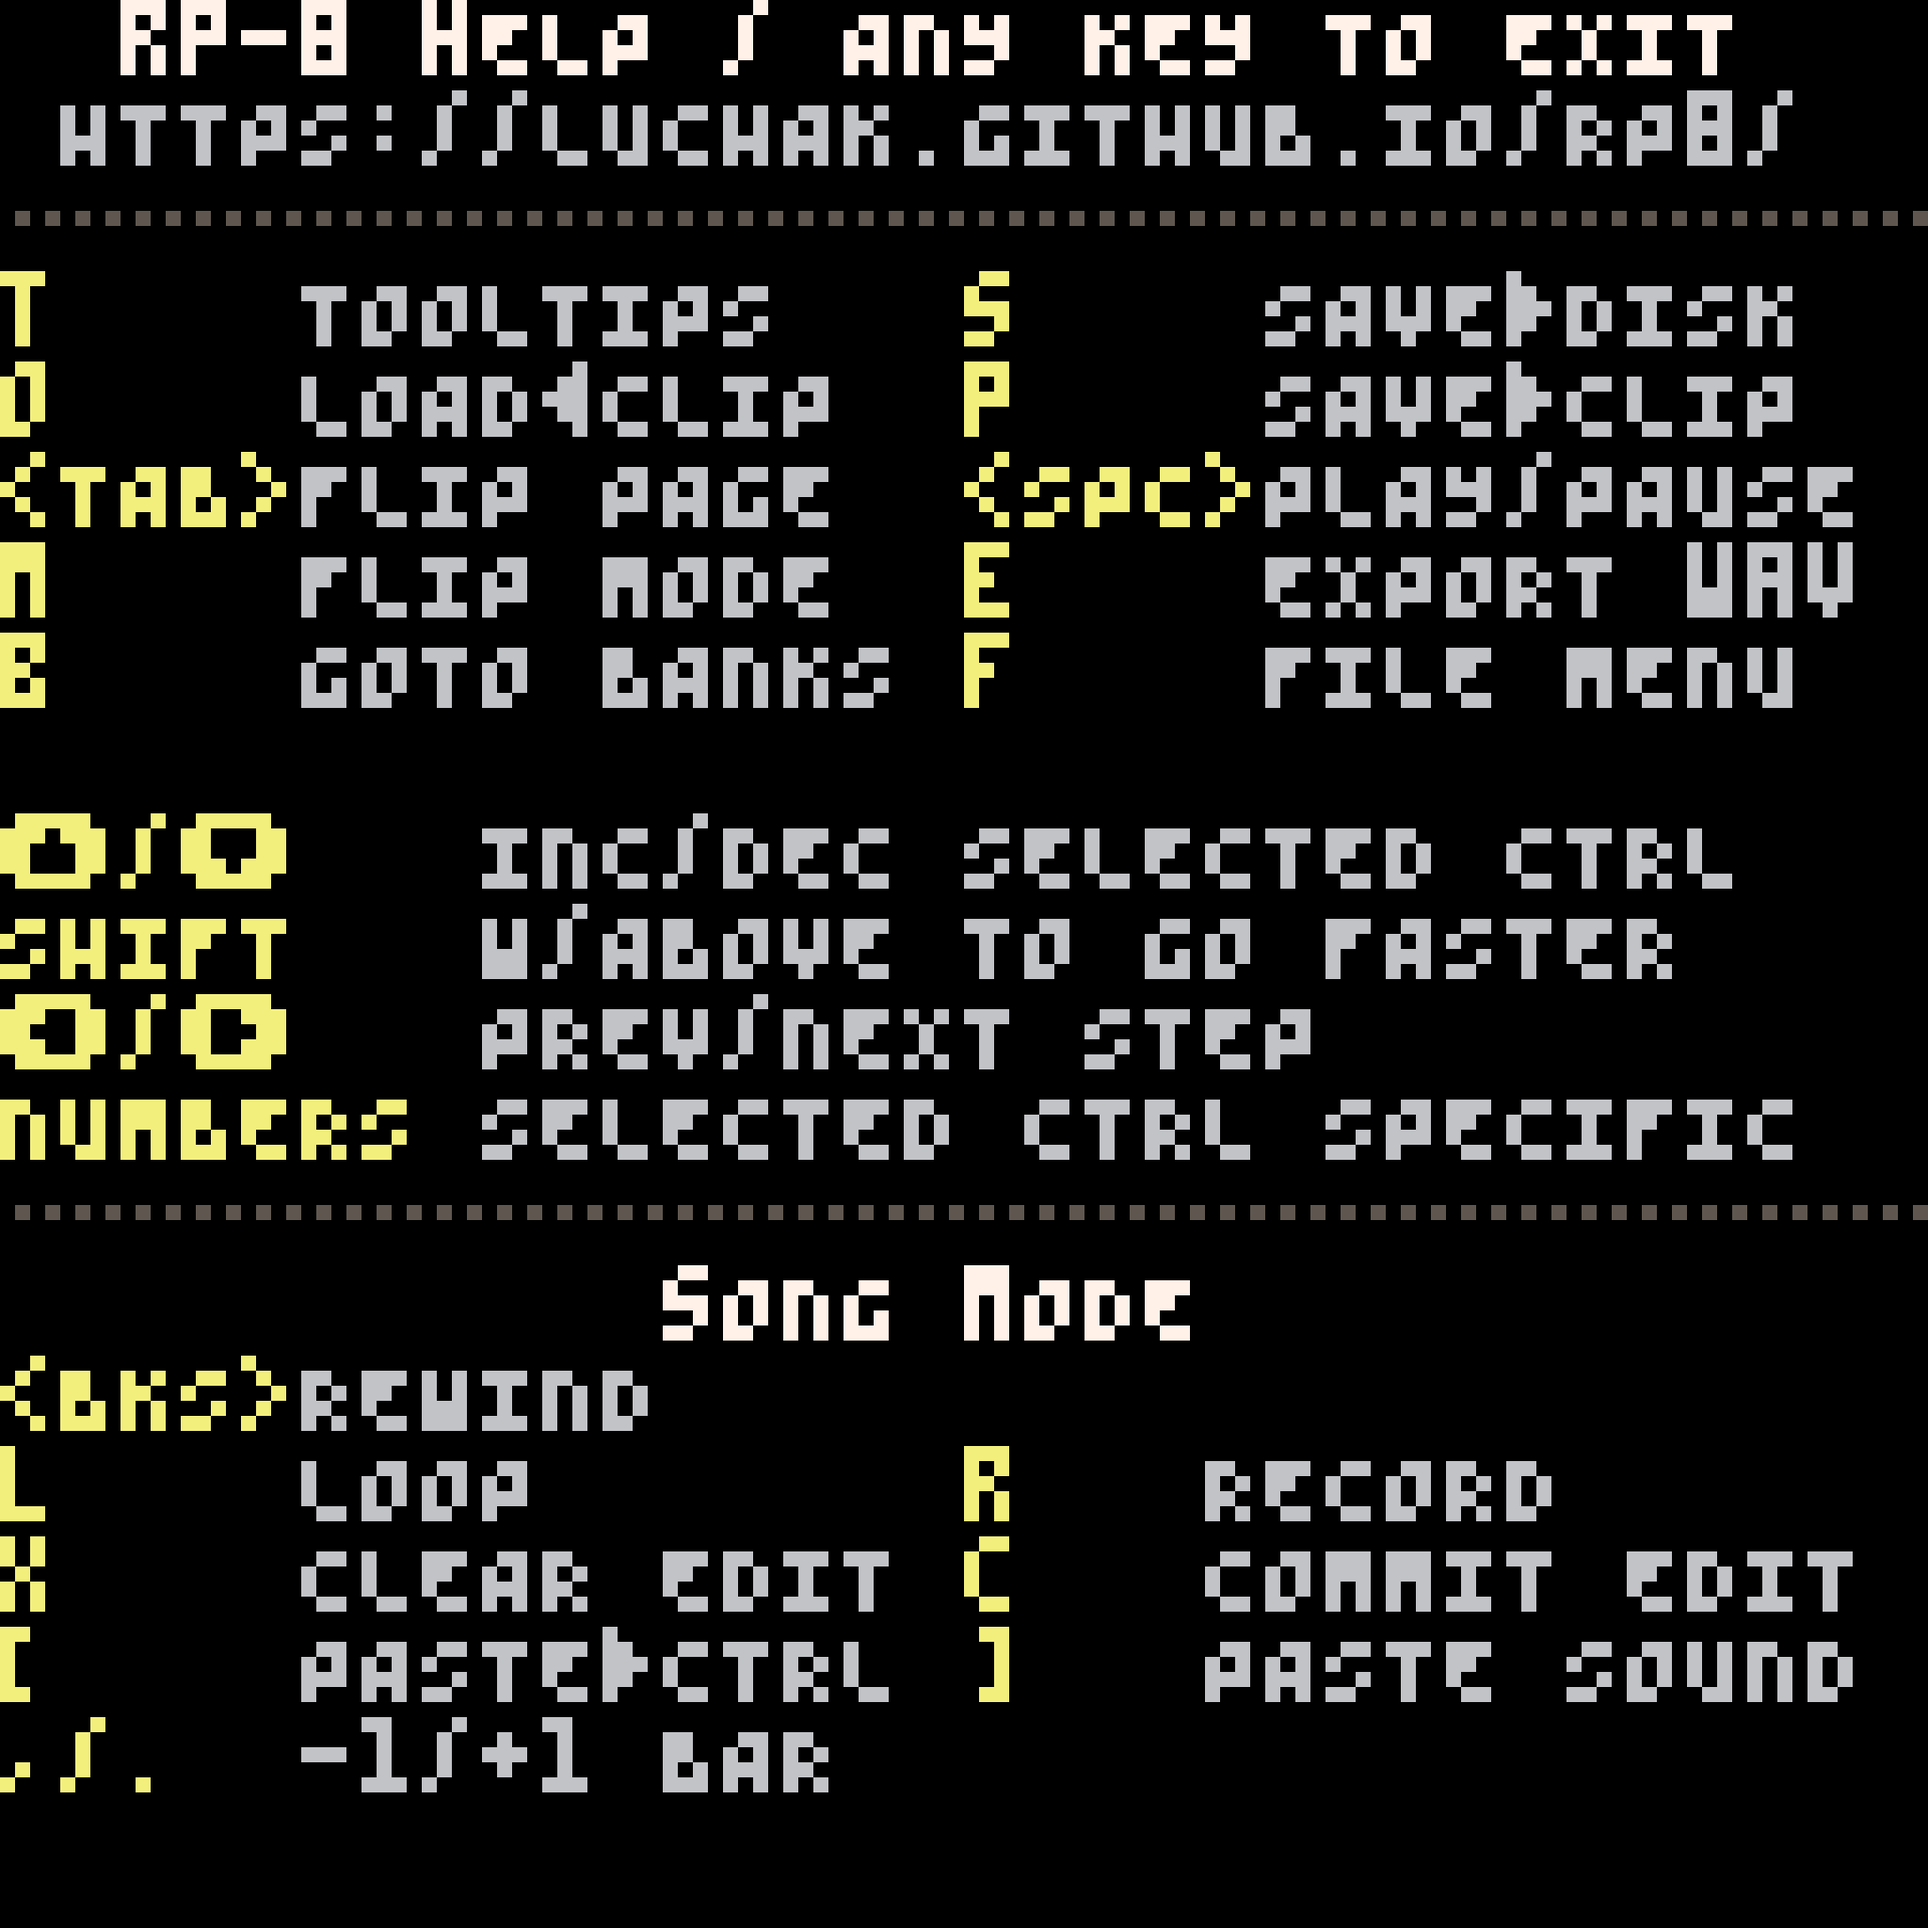
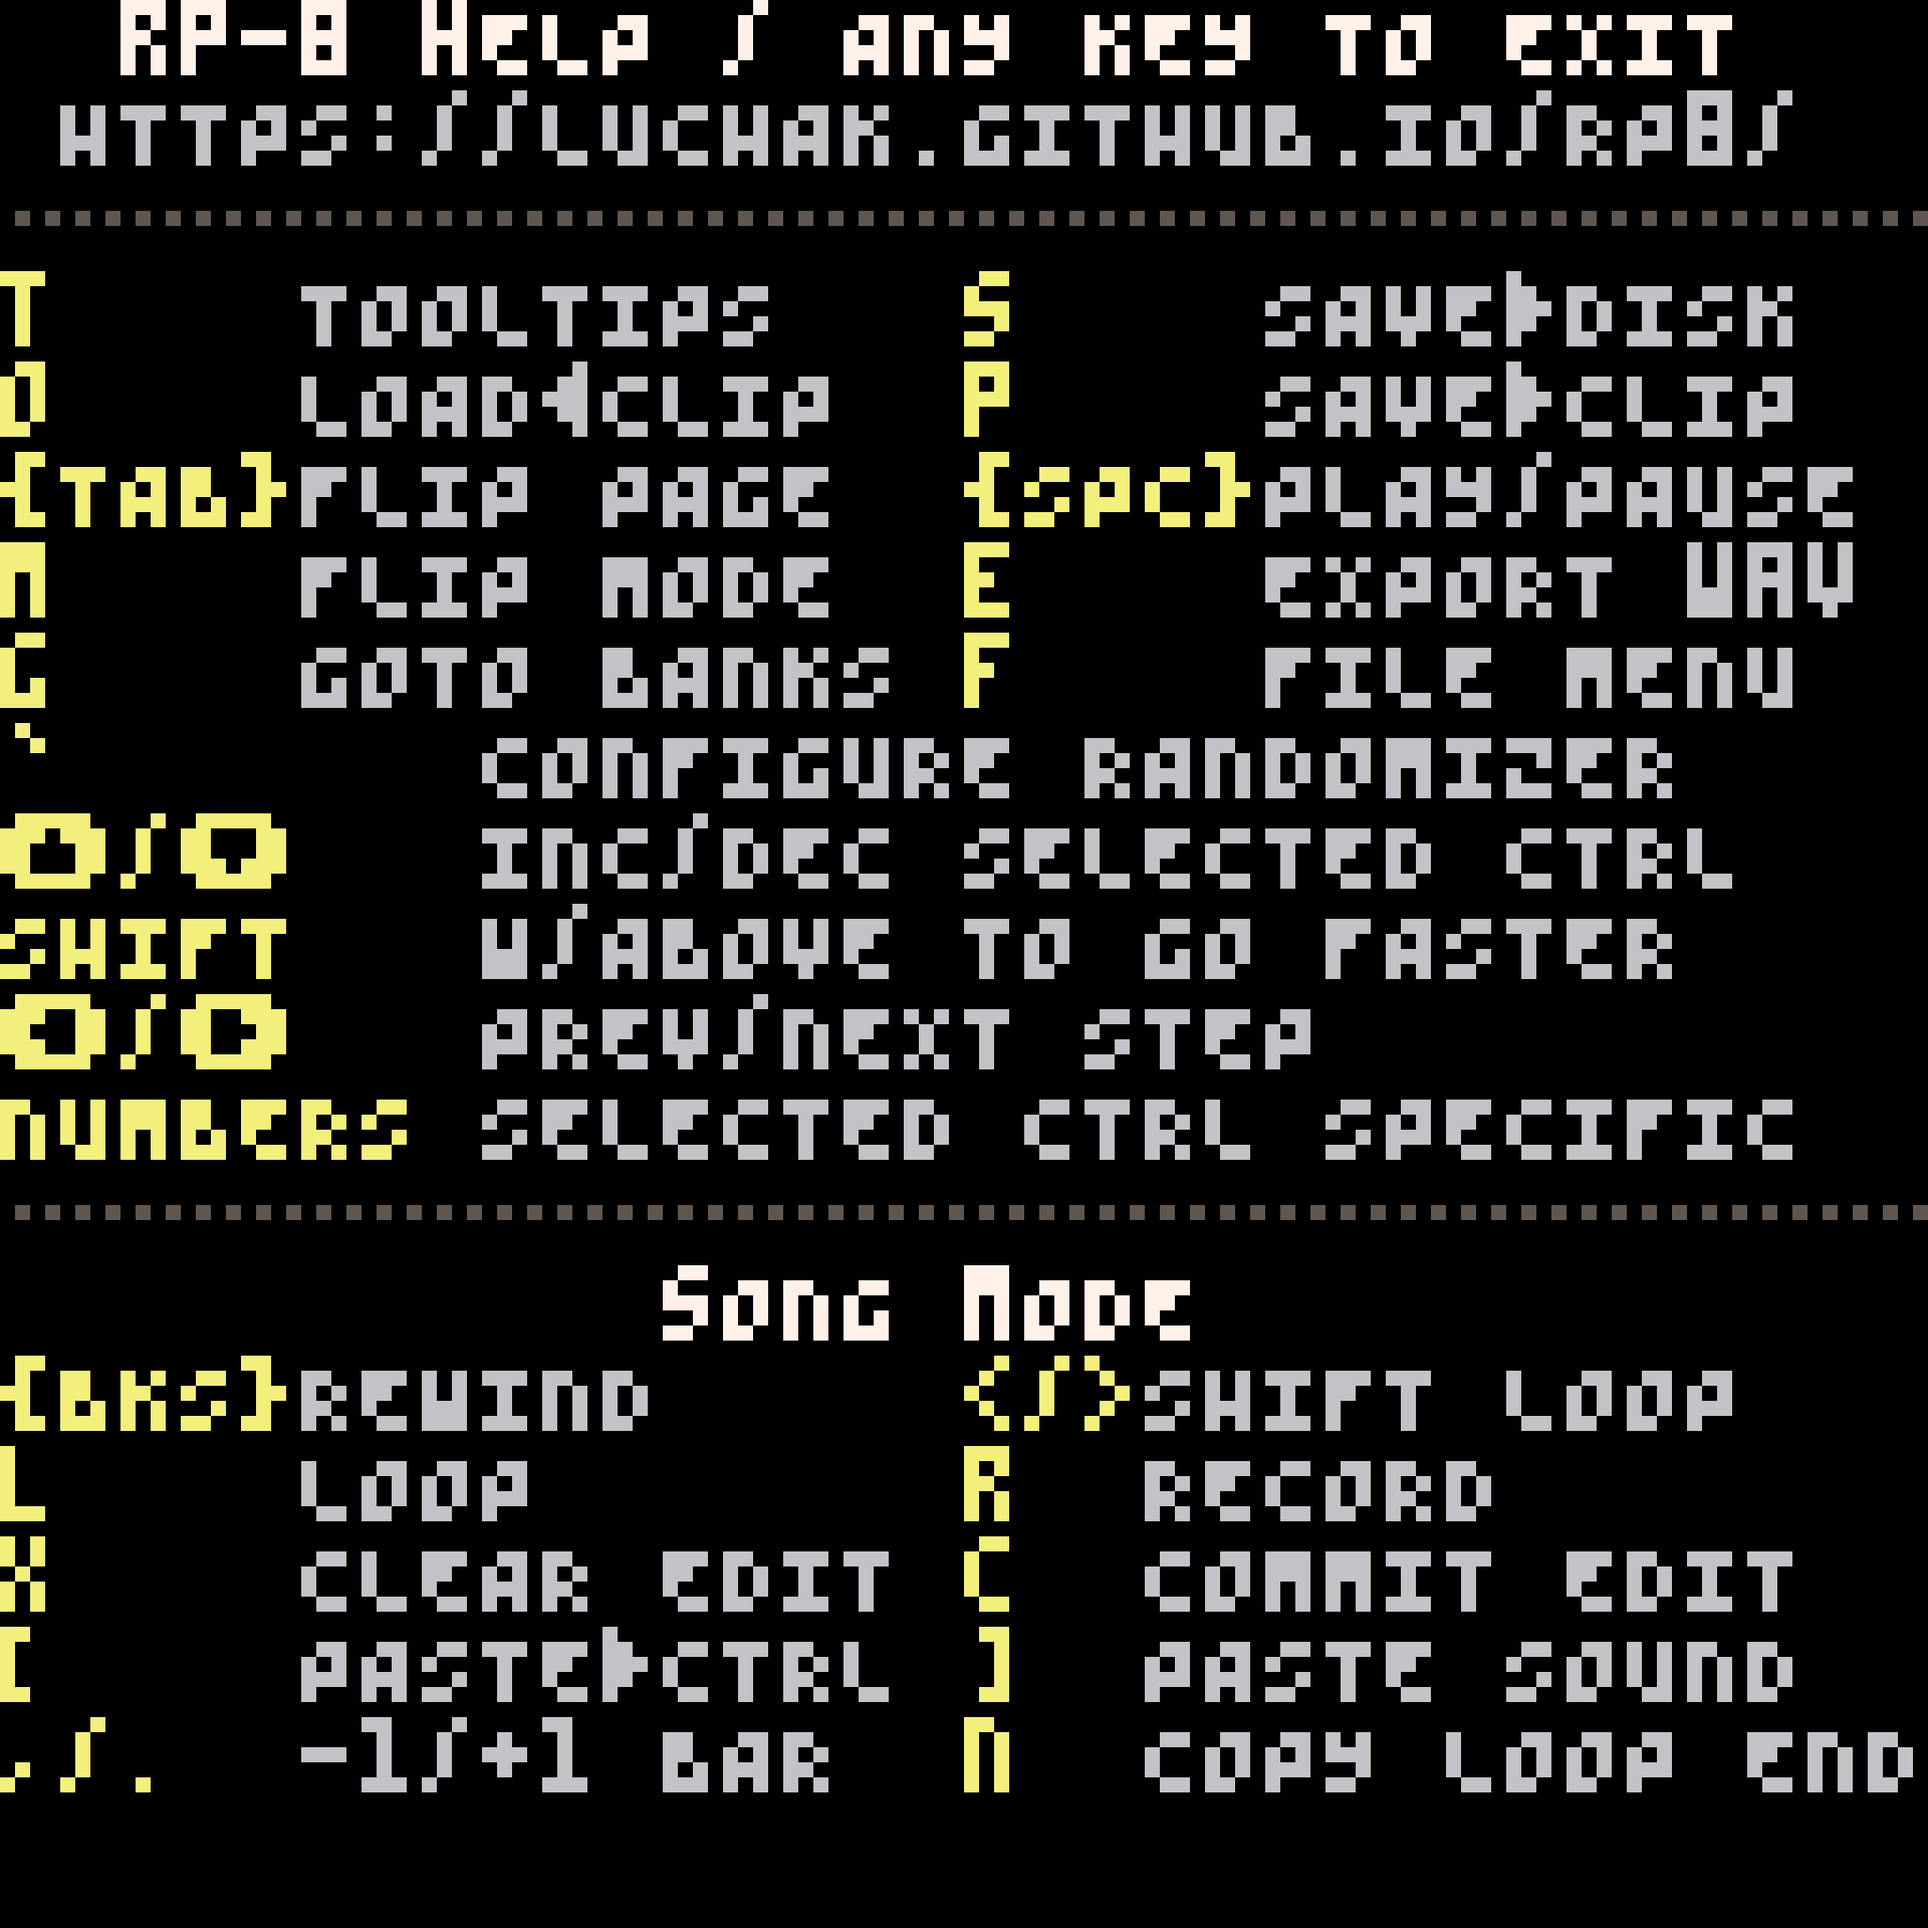
Document loop shift feature

diff --git a/docs/reference.md b/docs/reference.md
@@ -459,3 +459,5 @@ key         | action
 `]`         | paste sound only (controls but not pattern selections)
 `,`         | previous bar
 `.`         | next bar
+`<`         | move loop start backwards by loop length
+`>`         | move loop forwards by loop length
